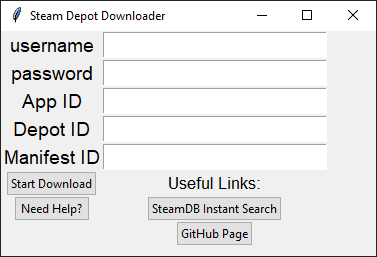
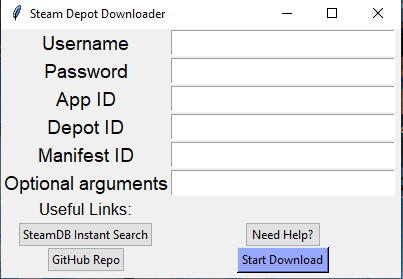
v1.3.0

Changed region(s): [[0.0, 0.0, 1.0, 1.0], [0.4085, 0.4981, 0.9629, 0.5292], [0.4085, 0.2802, 0.9629, 0.3113]]

diff --git a/main.py b/main.py
@@ -10,25 +10,26 @@ os.chdir("depotdownloader")
 
 
 # define functions
-def test():
+def download():
     if pswd == "":
         os.system(
             f"start /wait cmd /k dotnet DepotDownloader.dll -app {apid} -depot {dpotid} -manifest {manid}"
-            f" -max-servers 100 -max-downloads 65 -dir ../YourGame")
+            f" -max-servers 100 -max-downloads 65 -dir ../YourGame {arg}")
     else:
         os.system(
             f"start /wait cmd /k dotnet DepotDownloader.dll -app {apid} -depot {dpotid} -manifest {manid}"
-            f" -username {uname} -password {pswd} -max-servers 100 -max-downloads 65 -dir ../YourGame")
+            f" -username {uname} -password {pswd} -max-servers 100 -max-downloads 65 -dir ../YourGame {arg}")
 
 
 def execute():
-    global uname, pswd, apid, dpotid, manid
+    global uname, pswd, apid, dpotid, manid, arg
     uname = username.get()
     pswd = password.get()
     apid = appid.get()
     dpotid = depotid.get()
     manid = manifestid.get()
-    threading.Thread(target=test).start()  # run the download on a different thread so that the program doesn't freeze.
+    arg = arguments.get()
+    threading.Thread(target=download).start()  # run the download on a different thread so that the program doesn't freeze.
 
 
 def dbsite():
@@ -46,13 +47,14 @@ def needhelp():
 # draw the text
 window = Tk()
 window.title("Steam Depot Downloader")
-window.geometry('375x225')
+window.geometry('400x249')
 a = Label(window, text="Username", font=('Arial', 14)).grid(row=0, column=0)
 b = Label(window, text="Password", font=('Arial', 14)).grid(row=1, column=0)
 c = Label(window, text="App ID", font=('Arial', 14)).grid(row=2, column=0)
 d = Label(window, text="Depot ID", font=('Arial', 14)).grid(row=3, column=0)
 e = Label(window, text="Manifest ID", font=('Arial', 14)).grid(row=4, column=0)
-f = Label(window, text="Useful Links:", font=('Arial', 13)).grid(row=5, column=1)
+f = Label(window, text="Useful Links:", font=('Arial', 13)).grid(row=6, column=0)
+g = Label(window, text="Optional arguments", font=('Arial', 14)).grid(row=5, column=0)
 
 # draw the input fields
 username = Entry(window, font=('Arial', 14))
@@ -65,14 +67,16 @@ depotid = Entry(window, font=('Arial', 14))
 depotid.grid(row=3, column=1)
 manifestid = Entry(window, font=('Arial', 14))
 manifestid.grid(row=4, column=1)
+arguments = Entry(window, font=('Arial', 14))
+arguments.grid(row=5, column=1)
 steamdb = ttk.Button(window, text="SteamDB Instant Search", command=dbsite)
-steamdb.grid(row=6, column=1)
+steamdb.grid(row=7, column=0)
 github = ttk.Button(window, text="GitHub Repo", command=ghsite)
-github.grid(row=7, column=1)
-dload = ttk.Button(window, text="Start Download", command=execute)
-dload.grid(row=5, column=0)
+github.grid(row=8, column=0)
 github = ttk.Button(window, text="Need Help?", command=needhelp)
-github.grid(row=6, column=0)
+github.grid(row=7, column=1)
+dload = Button(window, text="Start Download", command=execute, bg='#97a8fc')
+dload.grid(row=8, column=1)
 
 # put everything in a loop
 window.mainloop()

diff --git a/depotdownloader/README.md b/depotdownloader/README.md
@@ -1,0 +1,55 @@
+DepotDownloader
+===============
+
+Steam depot downloader utilizing the SteamKit2 library. Supports .NET Core 2.0
+
+### Downloading one or all depots for an app
+```
+dotnet DepotDownloader.dll -app <id> [-depot <id> [-manifest <id>]]
+    [-username <username> [-password <password>]] [other options]
+```
+
+For example: `dotnet DepotDownloader.dll -app 730 -depot 731 -manifest 7617088375292372759`
+
+### Downloading a workshop item using pubfile id
+```
+dotnet DepotDownloader.dll -app <id> -pubfile <id> [-username <username> [-password <password>]]
+```
+
+For example: `dotnet DepotDownloader.dll -app 730 -pubfile 1885082371`
+
+### Downloading a workshop item using ugc id
+```
+dotnet DepotDownloader.dll -app <id> -ugc <id> [-username <username> [-password <password>]]
+```
+
+For example: `dotnet DepotDownloader.dll -app 730 -ugc 770604181014286929`
+
+## Parameters
+
+Parameter | Description
+--------- | -----------
+-app \<#>				| the AppID to download.
+-depot \<#>				| the DepotID to download.
+-manifest \<id>			| manifest id of content to download (requires -depot, default: current for branch).
+-ugc \<#>				| the UGC ID to download.
+-beta \<branchname>		| download from specified branch if available (default: Public).
+-betapassword \<pass>	| branch password if applicable.
+-all-platforms			| downloads all platform-specific depots when -app is used.
+-os \<os>				| the operating system for which to download the game (windows, macos or linux, default: OS the program is currently running on)
+-osarch \<arch>			| the architecture for which to download the game (32 or 64, default: the host's architecture)
+-all-languages			| download all language-specific depots when -app is used.
+-language \<lang>		| the language for which to download the game (default: english)
+-lowviolence			| download low violence depots when -app is used.
+-pubfile \<#>			| the PublishedFileId to download. (Will automatically resolve to UGC id)
+-username \<user>		| the username of the account to login to for restricted content.
+-password \<pass>		| the password of the account to login to for restricted content.
+-remember-password		| if set, remember the password for subsequent logins of this user.
+-dir \<installdir>		| the directory in which to place downloaded files.
+-filelist \<file.txt>	| a list of files to download (from the manifest). Can optionally use regex to download only certain files.
+-validate				| Include checksum verification of files already downloaded
+-manifest-only			| downloads a human readable manifest for any depots that would be downloaded.
+-cellid \<#>			| the overridden CellID of the content server to download from.
+-max-servers \<#>		| maximum number of content servers to use. (default: 8).
+-max-downloads \<#>		| maximum number of chunks to download concurrently. (default: 4).
+-loginid \<#>			| a unique 32-bit integer Steam LogonID in decimal, required if running multiple instances of DepotDownloader concurrently.
